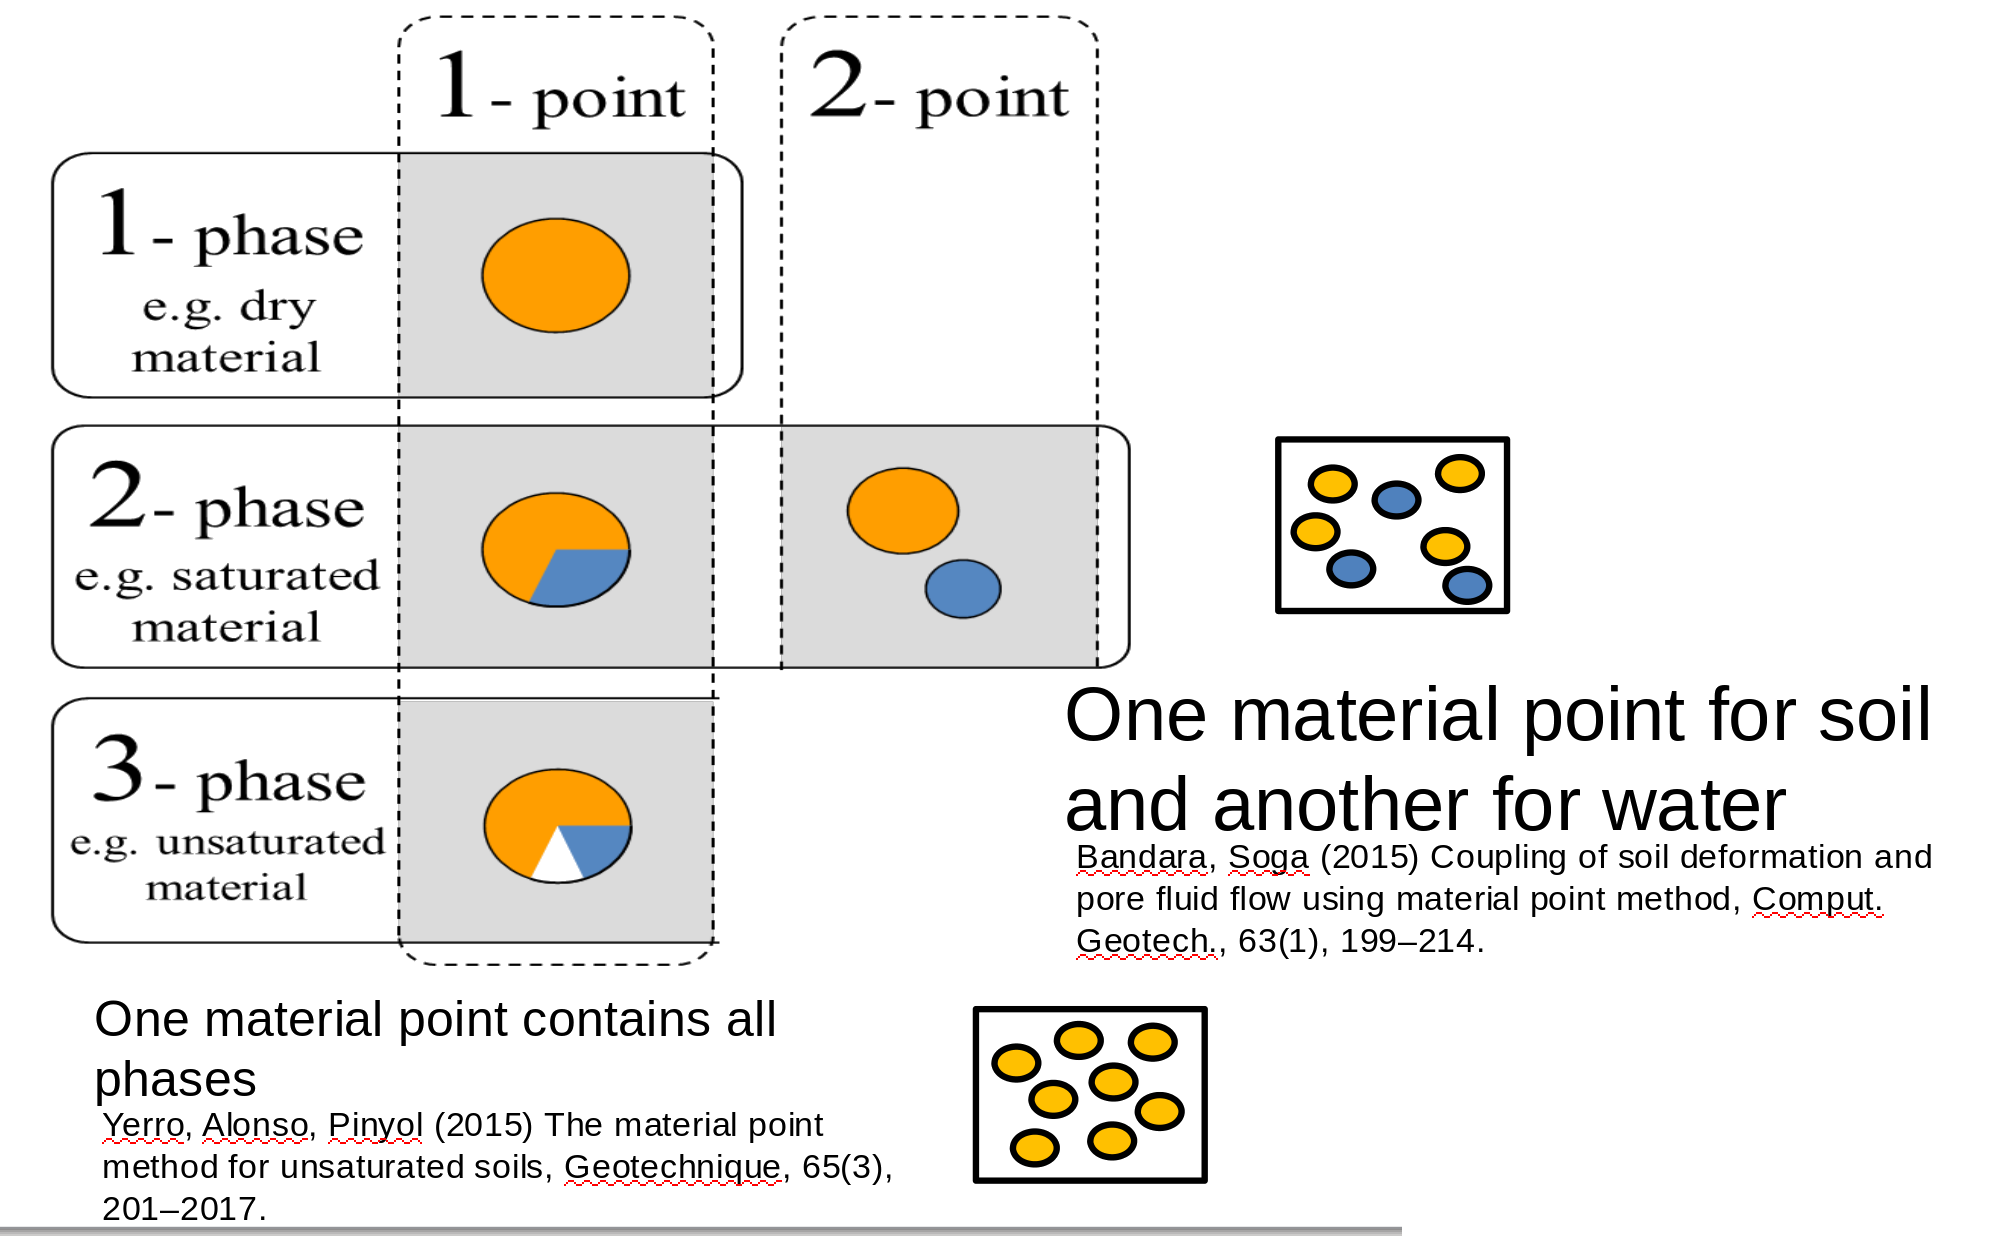
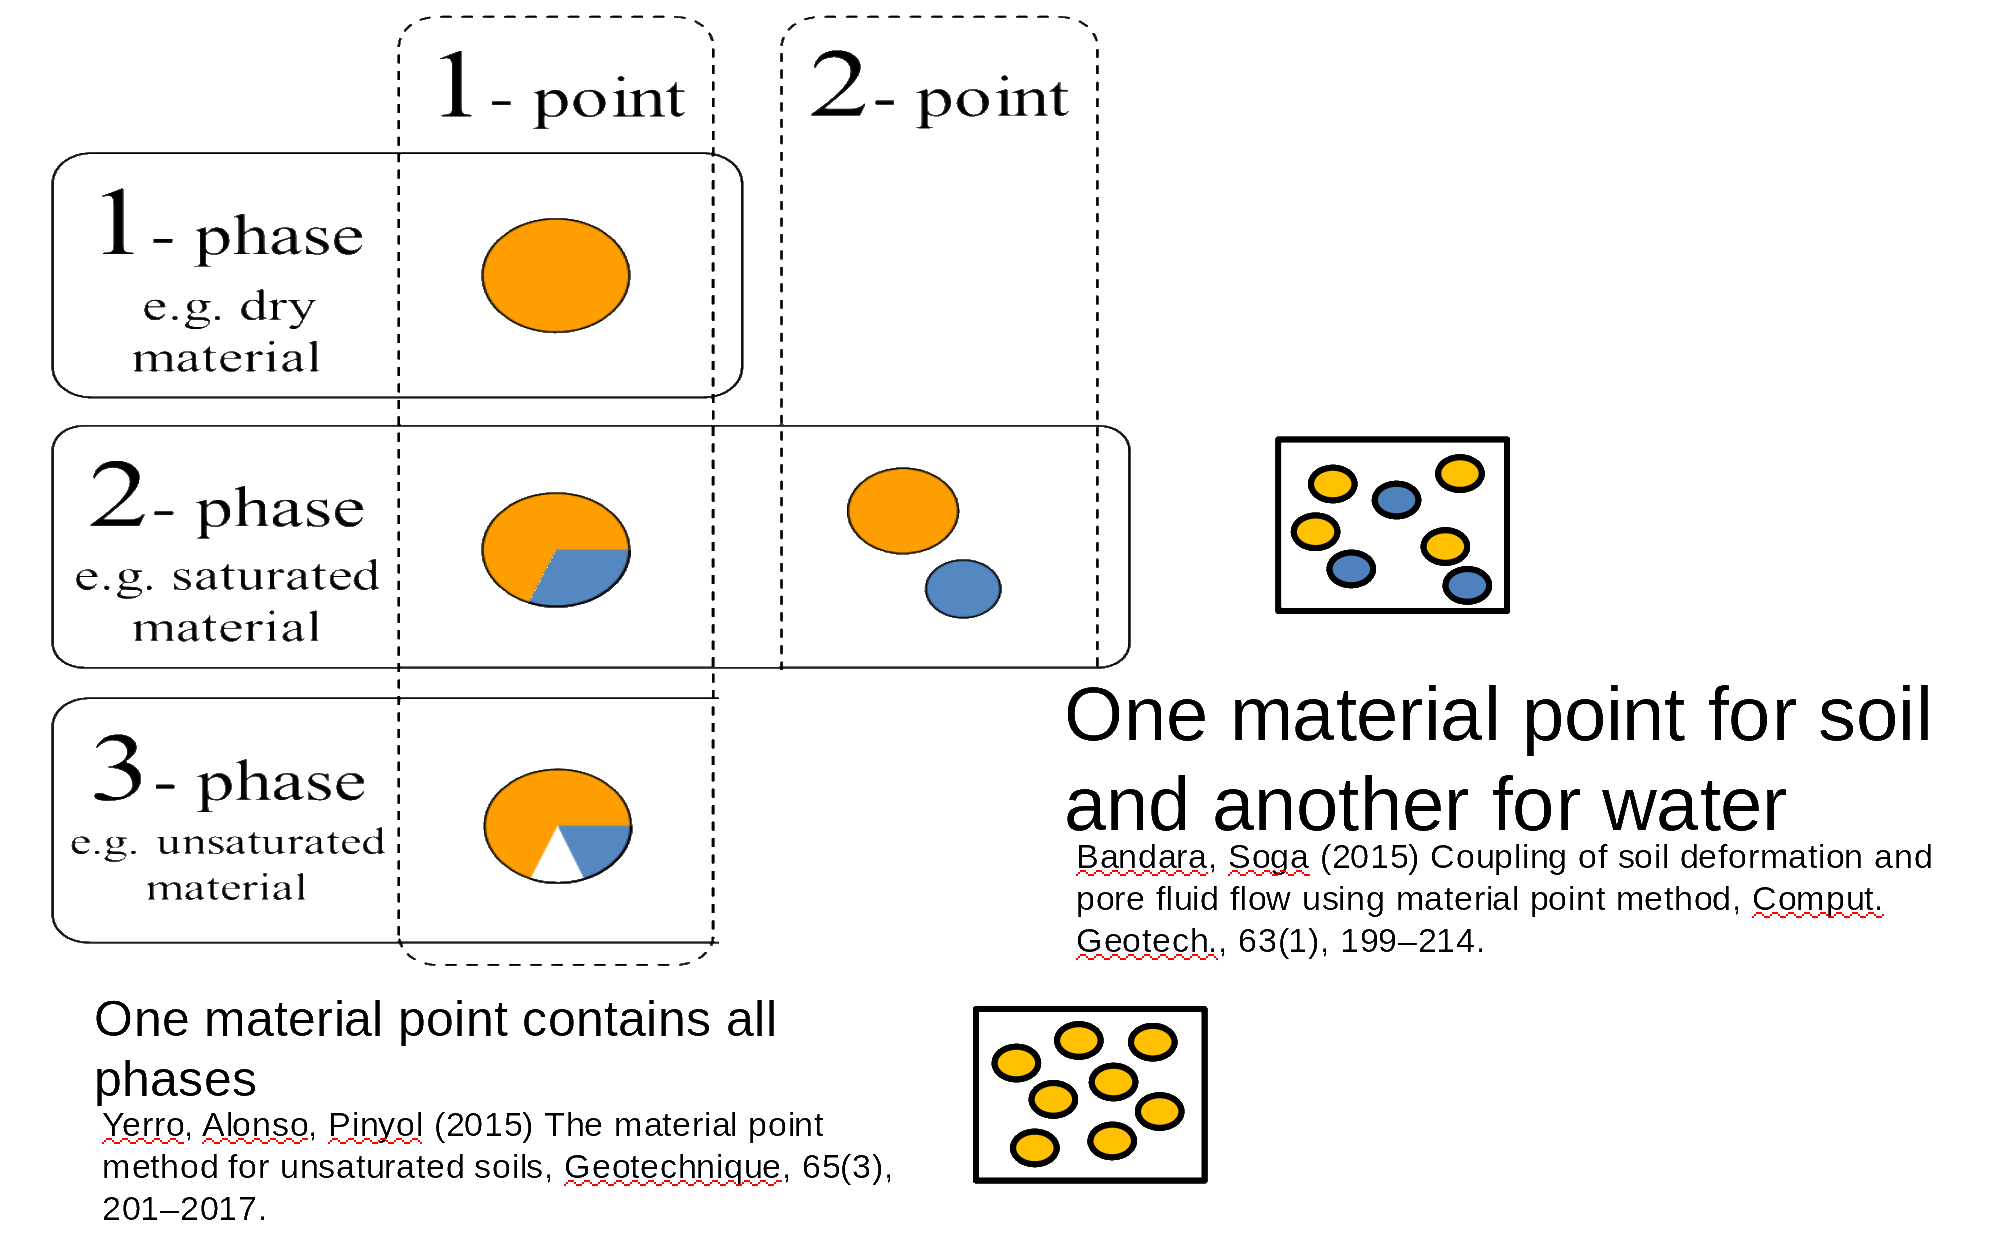
:art: Remove white background

diff --git a/index.html b/index.html
@@ -253,8 +253,8 @@
           </section>
           <!-- MPM two-phase -->
           <section>
-            <h2>MPM 2-phase formulation</h2>
-            <img style = "border:0;" src="images/two-phase-mpm.jpg" width="60%">
+            <h2>MPM multi-phase formulation</h2>
+            <img style = "border:0;" src="images/multiphase-mpm.png" width="80%">
           </section>
 
           <section>
@@ -273,35 +273,6 @@
                 Your browser does not support the video tag.
             </video>
             <p>Wilkes et al (2018)</p>
-          </section>
-
-          <!-- Code development -->
-          <section>
-            <h2>HPC MPM code</h2>
-            <div style="float: left; width: 40%;">
-              <p>
-                <ul>
-                  <li>Generic Templatised C++14</li>
-                  <li>2D/3D MPM Code</li>
-	          <li>Generalise Interpolation Material Point</li>
-                  <li>Distributed MPI</li>
-                  <li>Intel TBB  parallelisation</li>
-                  <li>Isoparametric elements</li>
-                  <li>HDF5 data stores</li>
-                  <li>Jupyter Notebooks integration</li>
-                  <li>Material models:</li>
-	          <ul>
-                    <li>Linear elastic</li>
-                    <li>Mohr coulomb</li>
-                    <li>Bingham fluid</li>
-                    <li>Newtonian</li>
-                  </ul>
-                </ul>
-              </p>
-            </div>
-            <div style="float: right; width: 60%;">
-              <img style = "border:0;" src="images/mpm-code-overview.png" width="80%">
-            </div>
           </section>
           <!-- Disney MPM -->
           <section>
